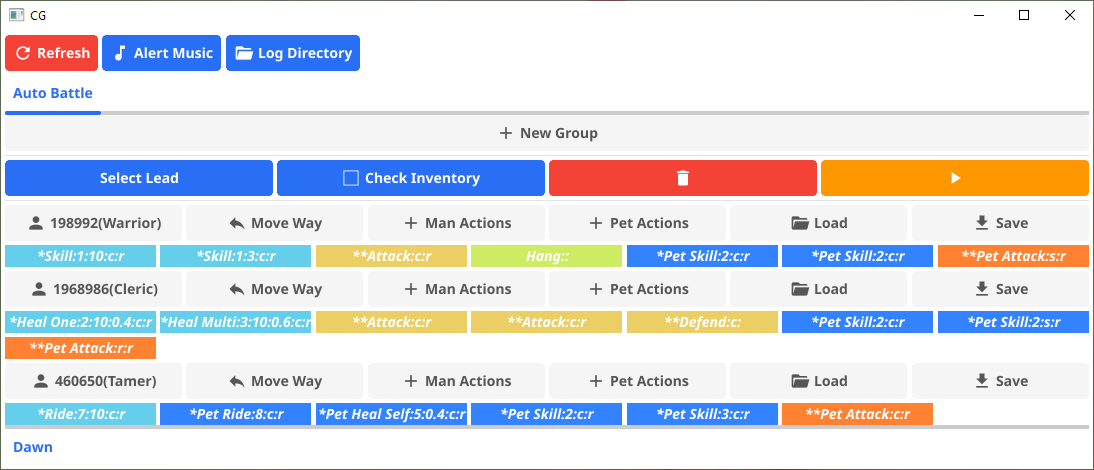
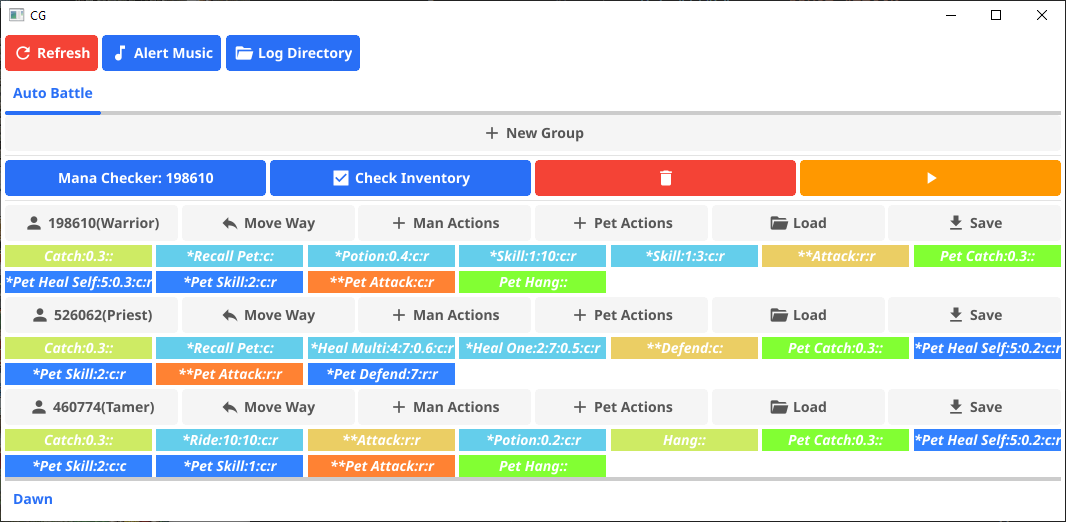
Chore: update example and correct ui

diff --git a/battleContainer.go b/battleContainer.go
@@ -235,6 +235,8 @@ func newBatttleGroupContainer(games map[string]HWND, destroy func()) (autoBattle
 		enableChan := make(chan bool)
 
 		onClosed := func() {
+			statesViewer.Objects = generateTags(*worker)
+			statesViewer.Refresh()
 			enableChan <- true
 		}
 
@@ -465,8 +467,9 @@ func newBatttleGroupContainer(games map[string]HWND, destroy func()) (autoBattle
 				}
 				activateDialogs(dialogs, enableChan)
 
-				trainButton.Disable()
+				catchButton.Disable()
 				stealButton.Disable()
+				trainButton.Disable()
 			})
 			attackButton.Importance = widget.WarningImportance
 
@@ -489,9 +492,10 @@ func newBatttleGroupContainer(games map[string]HWND, destroy func()) (autoBattle
 				activateDialogs(dialogs, enableChan)
 
 				bombButton.Disable()
-				stealButton.Disable()
-				rideButton.Disable()
 				recallButton.Disable()
+				rideButton.Disable()
+				catchButton.Disable()
+				stealButton.Disable()
 				trainButton.Disable()
 			})
 			escapeButton.Importance = widget.WarningImportance
@@ -527,15 +531,15 @@ func newBatttleGroupContainer(games map[string]HWND, destroy func()) (autoBattle
 				}
 				activateDialogs(dialogs, enableChan)
 
-				catchButton.Disable()
 				escapeButton.Disable()
 				recallButton.Disable()
-				hangButton.Disable()
-				stealButton.Disable()
-				healOneButton.Disable()
-				trainButton.Disable()
-				healMultiButton.Disable()
+				rideButton.Disable()
 				healSelfButton.Disable()
+				healOneButton.Disable()
+				healMultiButton.Disable()
+				catchButton.Disable()
+				stealButton.Disable()
+				trainButton.Disable()
 			})
 			bombButton.Importance = widget.HighImportance
 
@@ -579,15 +583,7 @@ func newBatttleGroupContainer(games map[string]HWND, destroy func()) (autoBattle
 				statesViewer.Refresh()
 
 				catchButton.Disable()
-				bombButton.Disable()
 				stealButton.Disable()
-				rideButton.Disable()
-				recallButton.Disable()
-				potionButton.Disable()
-				healOneButton.Disable()
-				hangButton.Disable()
-				healMultiButton.Disable()
-				healSelfButton.Disable()
 				trainButton.Disable()
 			})
 			hangButton.Importance = widget.SuccessImportance
@@ -603,7 +599,6 @@ func newBatttleGroupContainer(games map[string]HWND, destroy func()) (autoBattle
 				}
 				activateDialogs(dialogs, enableChan)
 
-				bombButton.Disabled()
 				catchButton.Disable()
 				stealButton.Disable()
 				trainButton.Disable()
@@ -622,11 +617,11 @@ func newBatttleGroupContainer(games map[string]HWND, destroy func()) (autoBattle
 				activateDialogs(dialogs, enableChan)
 
 				bombButton.Disable()
+				healSelfButton.Disable()
 				healOneButton.Disable()
 				healMultiButton.Disable()
-				healSelfButton.Disable()
-				trainButton.Disable()
 				catchButton.Disable()
+				trainButton.Disable()
 			})
 			stealButton.Importance = widget.SuccessImportance
 
@@ -641,16 +636,17 @@ func newBatttleGroupContainer(games map[string]HWND, destroy func()) (autoBattle
 				}
 				activateDialogs(dialogs, enableChan)
 
+				defendButton.Disable()
+				moveButton.Disable()
+				skillButton.Disable()
 				bombButton.Disable()
-				stealButton.Disable()
 				rideButton.Disable()
+				potionButton.Disable()
+				healSelfButton.Disable()
 				healOneButton.Disable()
 				healMultiButton.Disable()
-				healSelfButton.Disable()
 				catchButton.Disable()
-				hangButton.Disable()
-				recallButton.Disable()
-
+				stealButton.Disable()
 			})
 			trainButton.Importance = widget.SuccessImportance
 
@@ -665,8 +661,8 @@ func newBatttleGroupContainer(games map[string]HWND, destroy func()) (autoBattle
 				}
 				activateDialogs(dialogs, enableChan)
 
-				bombButton.Disable()
 				stealButton.Disable()
+				trainButton.Disable()
 			})
 			rideButton.Importance = widget.HighImportance
 
@@ -682,11 +678,10 @@ func newBatttleGroupContainer(games map[string]HWND, destroy func()) (autoBattle
 				}
 				activateDialogs(dialogs, enableChan)
 
-				trainButton.Disable()
 				bombButton.Disable()
-				stealButton.Disable()
 				healOneButton.Disable()
 				healMultiButton.Disable()
+				stealButton.Disable()
 			})
 			healSelfButton.Importance = widget.HighImportance
 
@@ -702,8 +697,8 @@ func newBatttleGroupContainer(games map[string]HWND, destroy func()) (autoBattle
 				}
 				activateDialogs(dialogs, enableChan)
 
-				healSelfButton.Disable()
 				bombButton.Disable()
+				healSelfButton.Disable()
 				stealButton.Disable()
 			})
 			healOneButton.Importance = widget.HighImportance
@@ -720,10 +715,10 @@ func newBatttleGroupContainer(games map[string]HWND, destroy func()) (autoBattle
 				}
 				activateDialogs(dialogs, enableChan)
 
-				trainButton.Disable()
-				healSelfButton.Disable()
 				bombButton.Disable()
+				healSelfButton.Disable()
 				stealButton.Disable()
+				trainButton.Disable()
 			})
 			healMultiButton.Importance = widget.HighImportance
 
@@ -781,13 +776,6 @@ func newBatttleGroupContainer(games map[string]HWND, destroy func()) (autoBattle
 				worker.ActionState.AddPetState(P_S_HANG)
 				statesViewer.Objects = generateTags(*worker)
 				statesViewer.Refresh()
-
-				petAttackButton.Disable()
-				petHangButton.Disable()
-				petSkillButton.Disable()
-				petRideButton.Disable()
-				petDefendButton.Disable()
-				petHealSelfButton.Disable()
 			})
 			petHangButton.Importance = widget.SuccessImportance
 
@@ -850,8 +838,6 @@ func newBatttleGroupContainer(games map[string]HWND, destroy func()) (autoBattle
 					pCUFailureSelectorDialog,
 				}
 				activateDialogs(dialogs, enableChan)
-
-				petRideButton.Disable()
 			})
 			petRideButton.Importance = widget.HighImportance
 
@@ -864,8 +850,6 @@ func newBatttleGroupContainer(games map[string]HWND, destroy func()) (autoBattle
 					pCUFailureSelectorDialog,
 				}
 				activateDialogs(dialogs, enableChan)
-
-				petOffRideButton.Disable()
 			})
 			petOffRideButton.Importance = widget.HighImportance
 
@@ -892,7 +876,6 @@ func newBatttleGroupContainer(games map[string]HWND, destroy func()) (autoBattle
 					pHealingRatioSelectorDialog,
 				}
 				activateDialogs(dialogs, enableChan)
-
 			})
 			petCatchButton.Importance = widget.SuccessImportance
 

diff --git a/game/battleAction.go b/game/battleAction.go
@@ -50,7 +50,7 @@ const (
 	P_C_O_HEAL   = "*Pet Heal One"
 	P_C_RIDE     = "*Pet Ride"
 	P_C_OFF_RIDE = "*Pet Off Ride"
-	P_S_CATCH    = "*Pet Catch"
+	P_S_CATCH    = "Pet Catch"
 	P_S_HANG     = "Pet Hang"
 )
 
